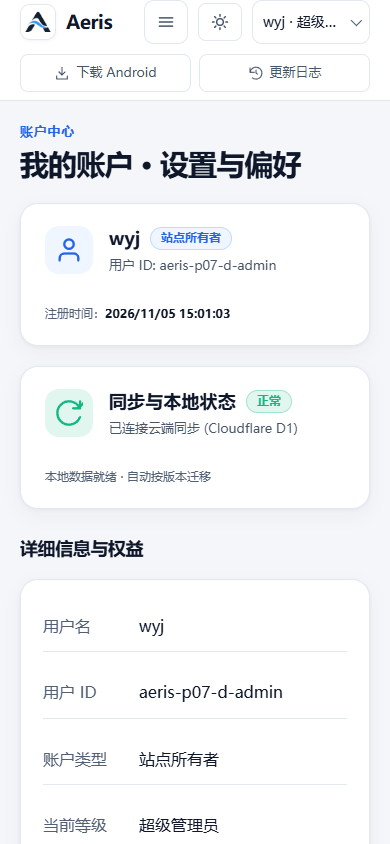
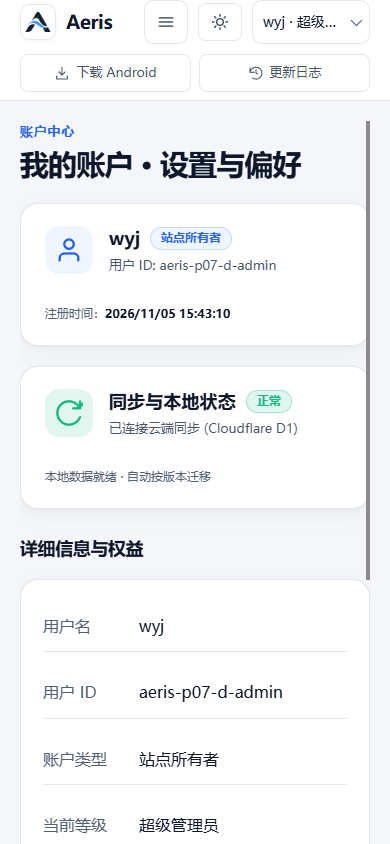
fix(p07): resolve mobile modal-panel element query in browser application flow test

Changed region(s): [[0.9231, 0.1232, 0.9538, 0.7085], [0.5538, 0.3697, 0.5846, 0.4005], [0.4923, 0.3697, 0.5231, 0.4005]]

diff --git a/index.html b/index.html
@@ -1091,7 +1091,7 @@
 
         <!-- V3 Membership Workspace -->
         <section class="v3-workspace membership-page hidden" id="membershipModal" aria-labelledby="membershipTitle" aria-hidden="true">
-      <div class="v3-workspace-content membership-workspace-content">
+      <div class="v3-workspace-content membership-workspace-content modal-panel">
         <button class="modal-close" data-close-modal="membershipModal" type="button" aria-label="关闭"><svg viewBox="0 0 24 24" aria-hidden="true" focusable="false"><path d="m6 6 12 12M18 6 6 18"/></svg></button>
         <p class="section-kicker">会员服务</p>
         <h2 id="membershipTitle">会员方案 · 规则清楚，开通可追踪</h2>
@@ -1161,7 +1161,7 @@
 
         <!-- V3 Account Workspace -->
         <section class="v3-workspace account-page hidden" id="accountModal" aria-labelledby="accountTitle" aria-hidden="true">
-      <div class="v3-workspace-content account-workspace-content">
+      <div class="v3-workspace-content account-workspace-content modal-panel">
         <button class="modal-close" data-close-modal="accountModal" type="button" aria-label="关闭"><svg viewBox="0 0 24 24" aria-hidden="true" focusable="false"><path d="m6 6 12 12M18 6 6 18"/></svg></button>
         <p class="section-kicker">账户中心</p>
         <h2 id="accountTitle">我的账户 · 设置与偏好</h2>
